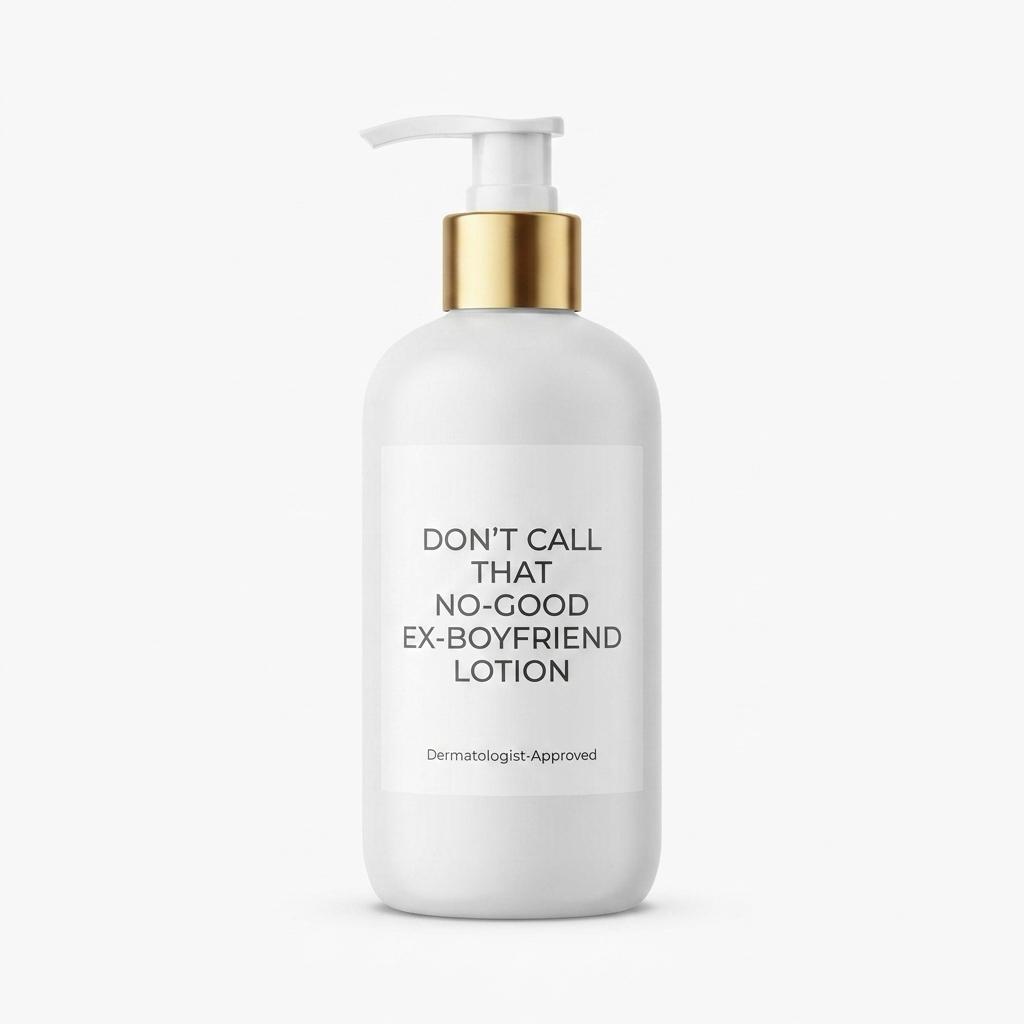
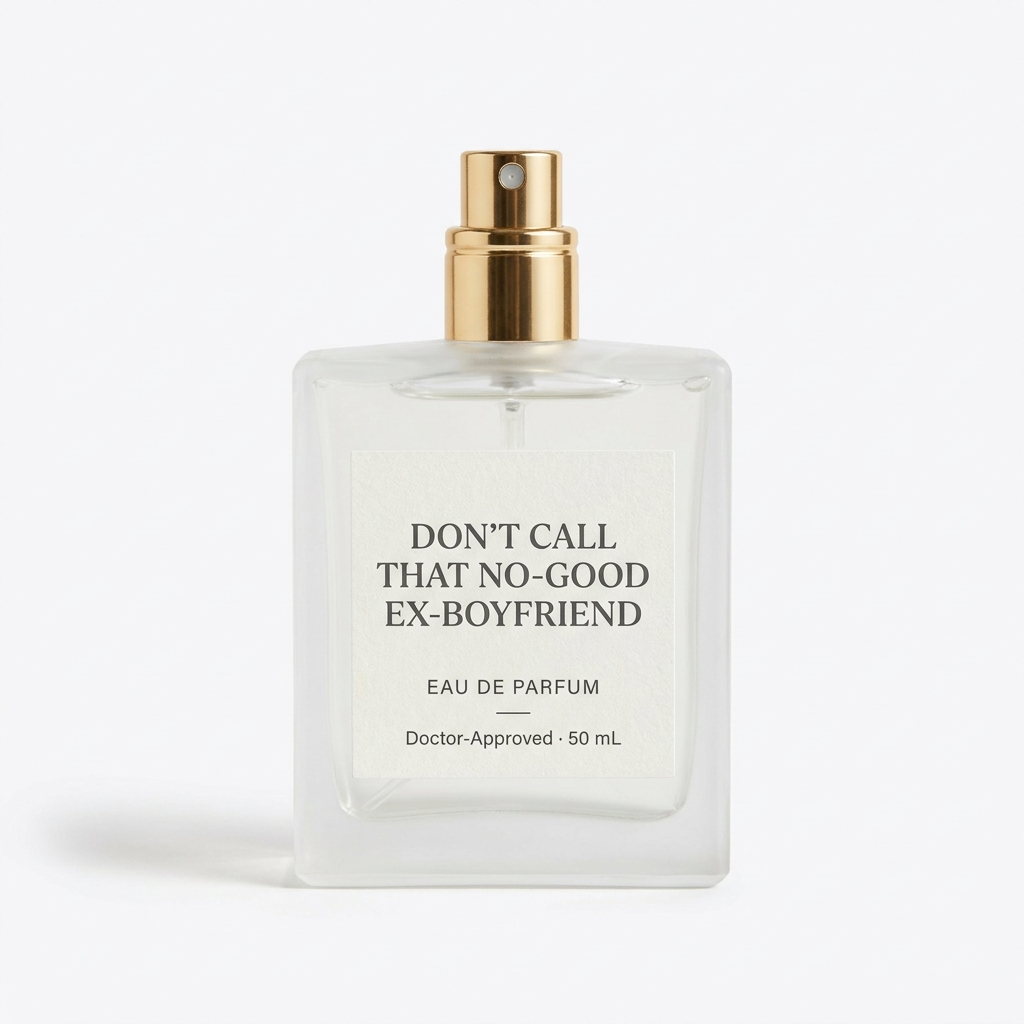
Dave corrections: blank "one hand clapping" FAQ answer; store product → Eau de Parfum
- faqs.ts: clear the "sound of one hand clapping" answer (was "…", now blank per Dave)
- goreProducts.ts: rename ex-boyfriend product "Lotion" → "Eau de Parfum"
- regenerate product image as a perfume atomizer bottle labeled "Eau de Parfum"
  (old image was a lotion pump bottle with "LOTION" baked into the label)

Changed region(s): [[0.0625, 0.0938, 0.7188, 0.9062], [0.3438, 0.125, 0.4062, 0.1562]]

diff --git a/src/data/faqs.ts b/src/data/faqs.ts
@@ -36,7 +36,7 @@ export const faqsPart2: Faq[] = [
   { q: "What does “falling in love” and “being in love” have in common?", a: "Nothing." },
   { q: "Huh?", a: "These are two totally different processes. Falling in love is effortless. Staying in love takes effort. That’s why you don’t marry someone on the third date. Or get matching tattoos on your first vacation." },
   { q: "What is the best gift I can give my child?", a: "A good marriage." },
-  { q: "What is the sound of one hand clapping?", a: "…" },
+  { q: "What is the sound of one hand clapping?", a: "" },
   { q: "I am successful. Why am I still unhappy?", a: "Because success solves different problems than most people think it does. Money can buy comfort. Achievement can buy status. Neither guarantees a close marriage, a meaningful life, or peace of mind. I spend a lot of time helping successful people build the parts of life their careers couldn’t build for them. That’s some of my favorite work." },
   { q: "My child is turning sixteen soon… should I get Chase a new car?", a: "No. Give Chase something to look forward to. Please. And make him or her work a little bit and financially contribute to the purchase of this first, used, safe car. Kids that help pay for cars take more pride in the car’s appearance, take better care of the car, and drive more safely." },
   { q: "They really drive more safely?", a: "No, I just made that part up. They do take better care of the car when they make a significant financial contribution. Please, don’t just hand your kid a new car." },

diff --git a/src/data/goreProducts.ts b/src/data/goreProducts.ts
@@ -49,7 +49,7 @@ export const goreProducts: GoreProduct[] = [
   },
   {
     slug: 'ex-boyfriend-lotion',
-    title: '“Don\'t Call That No Good Ex-Boyfriend” Lotion',
+    title: '“Don\'t Call That No Good Ex-Boyfriend” Eau de Parfum',
     price: '$19.95',
     priceValue: 19.95,
     image: '/assets/store/ex-boyfriend-lotion.jpg',